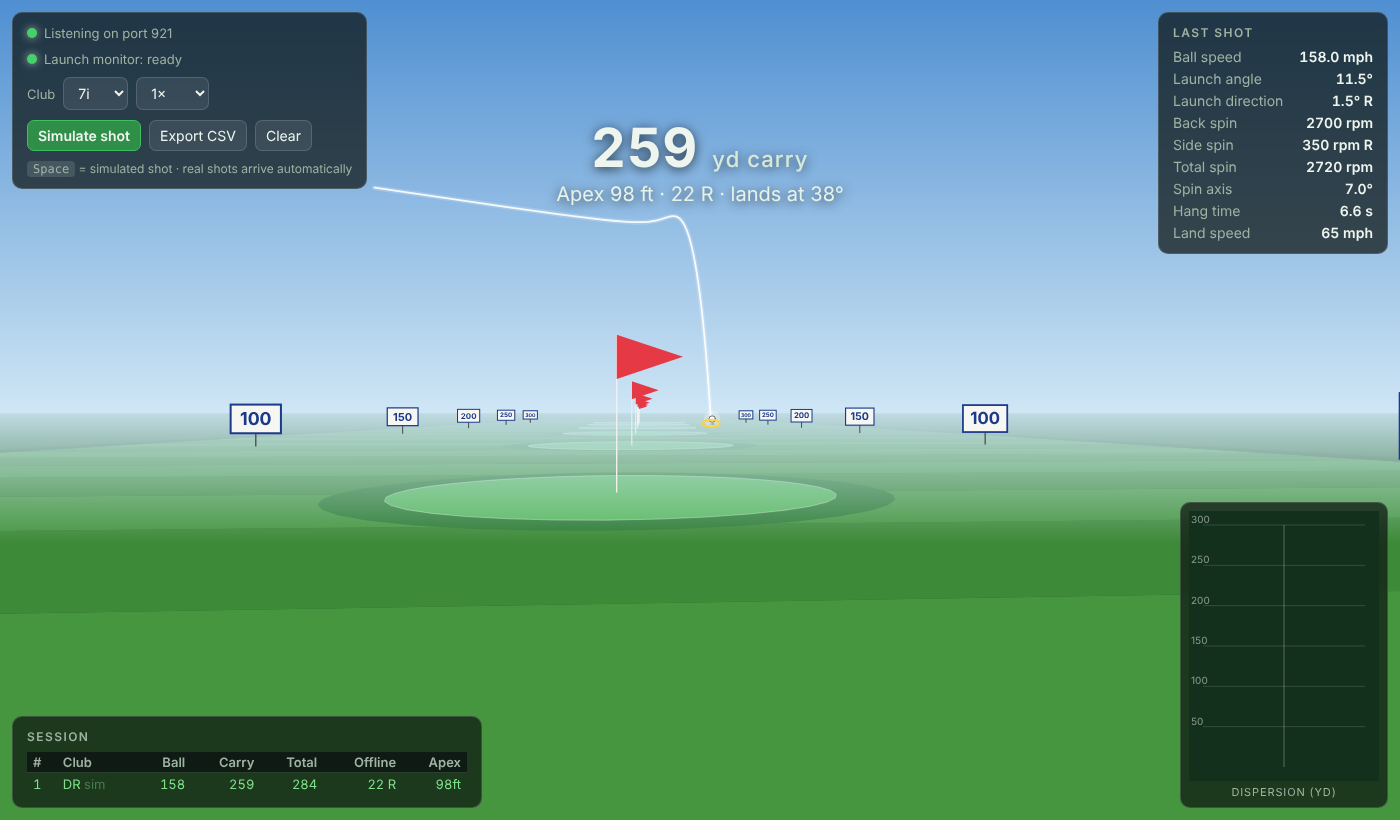
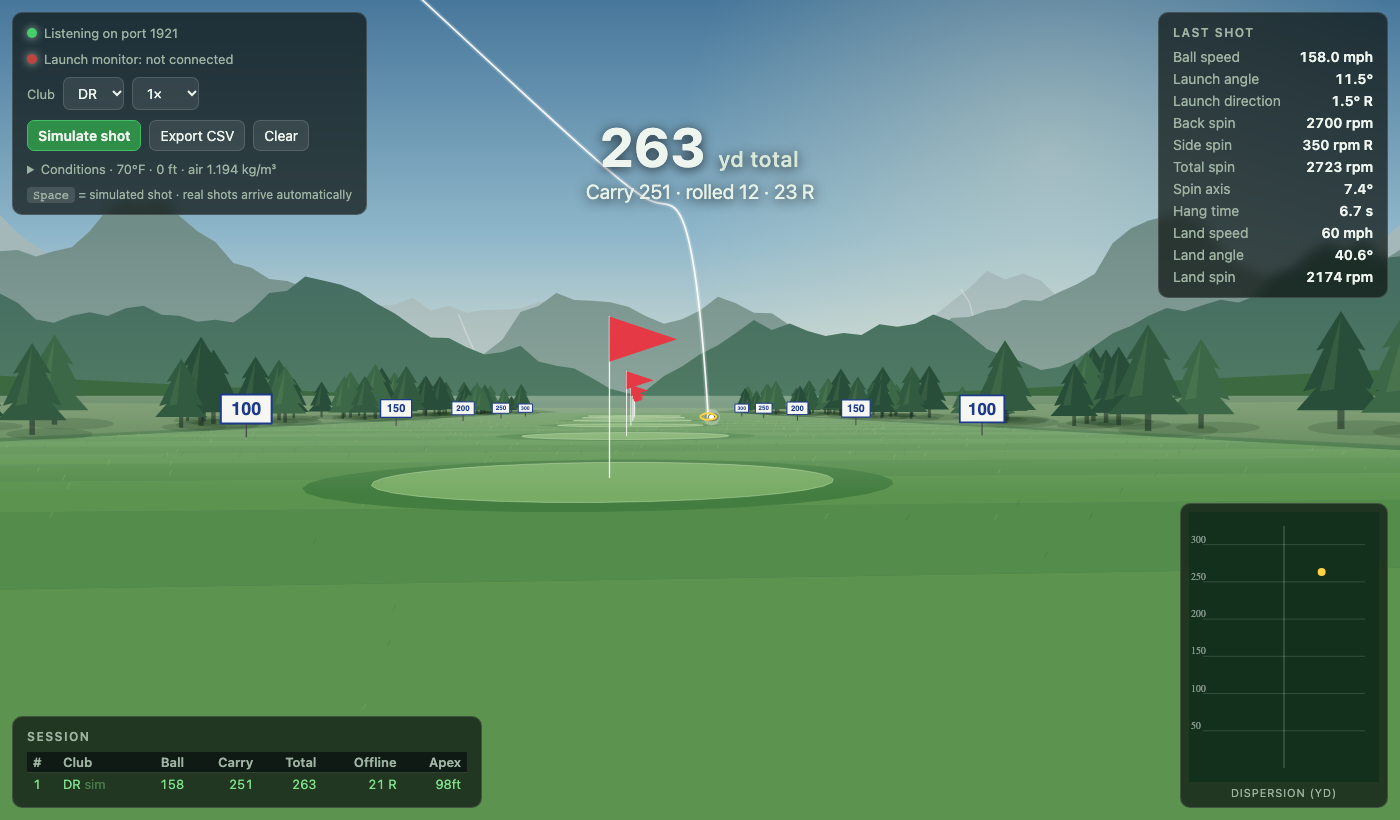
Update README screenshot for mountain range

diff --git a/README.md b/README.md
@@ -2,7 +2,7 @@
 
 A simple, lightweight driving range visualizer for the launch monitor you already own.
 
-![Teebox showing a driver shot](docs/screenshot.png)
+![Teebox driving range with mountain scenery and a driver shot](docs/screenshot.png)
 
 Hit a ball, watch it fly. Teebox receives shot data from your launch monitor, plays back the
 ball flight, and shows carry, total distance, offline, apex and a session history. It is one small
